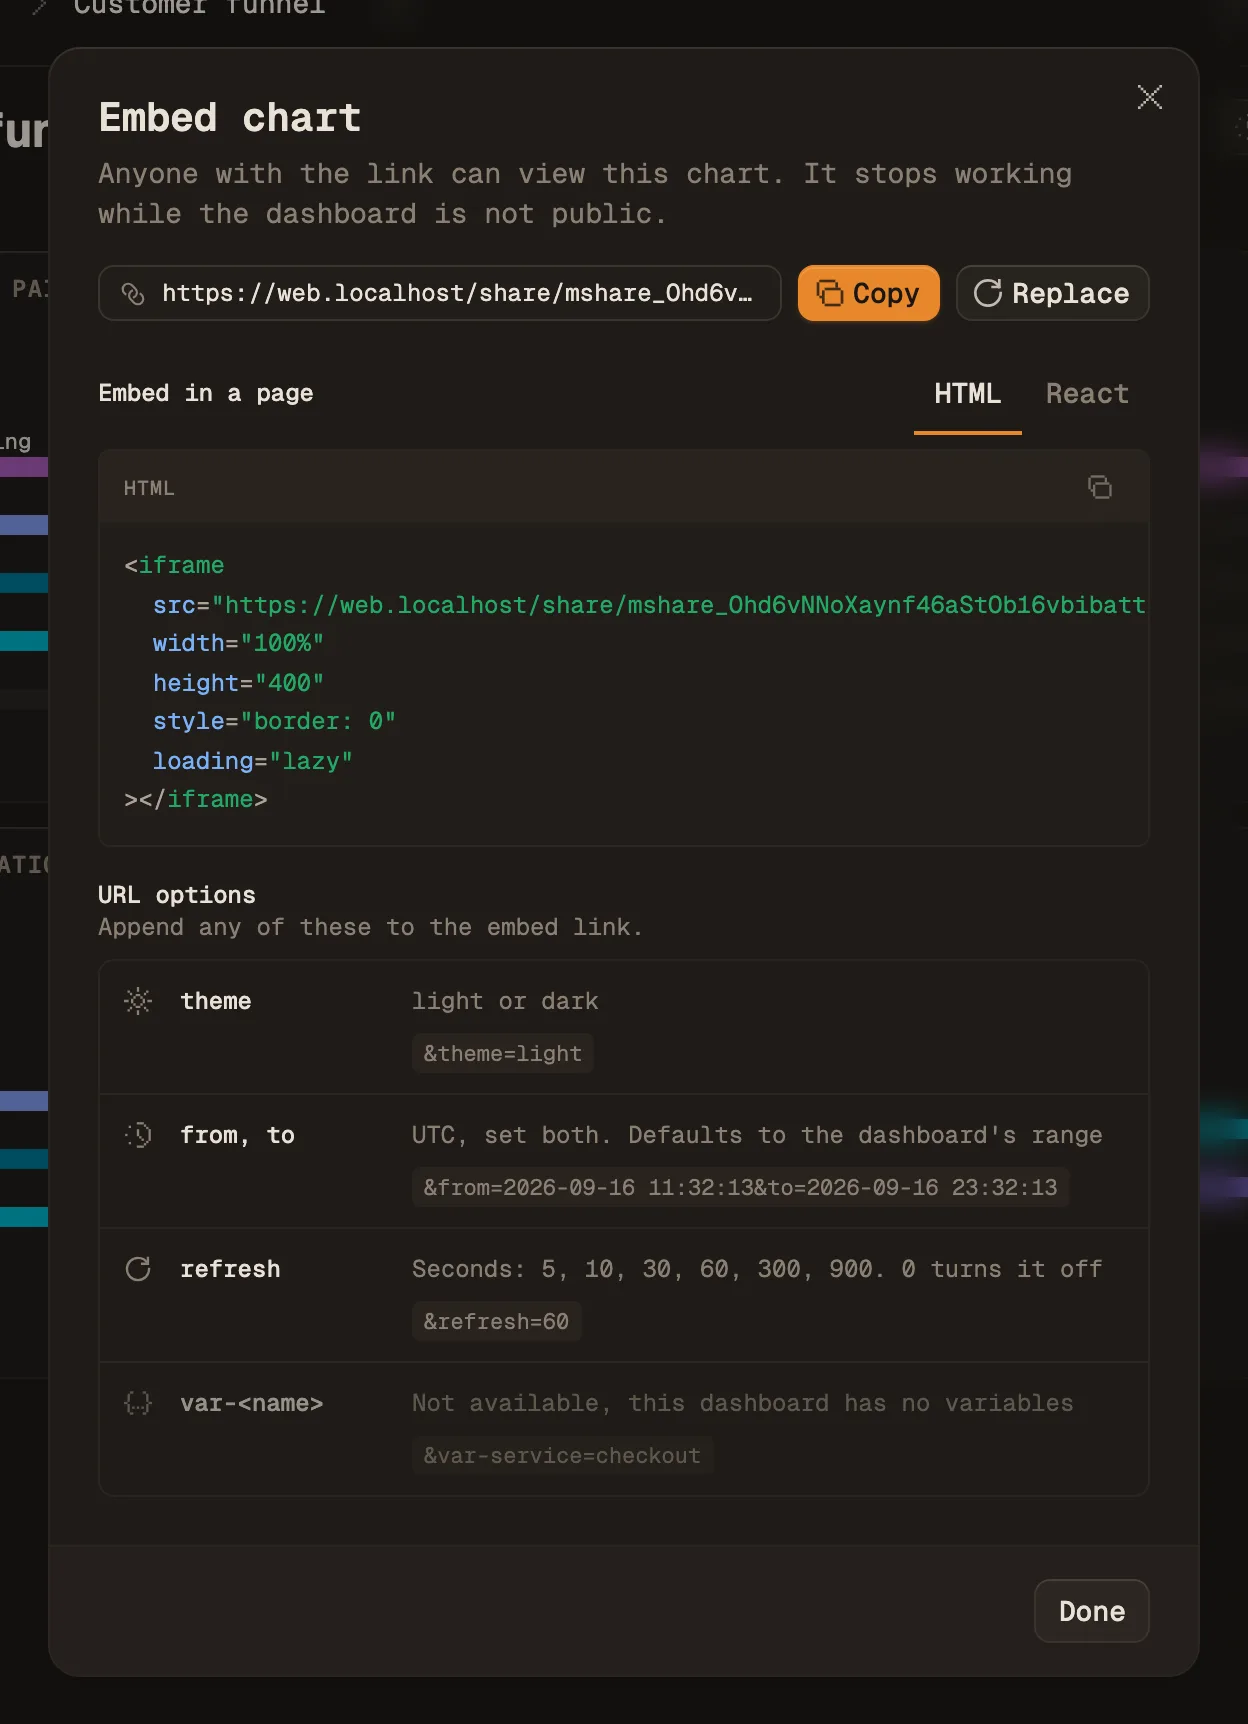
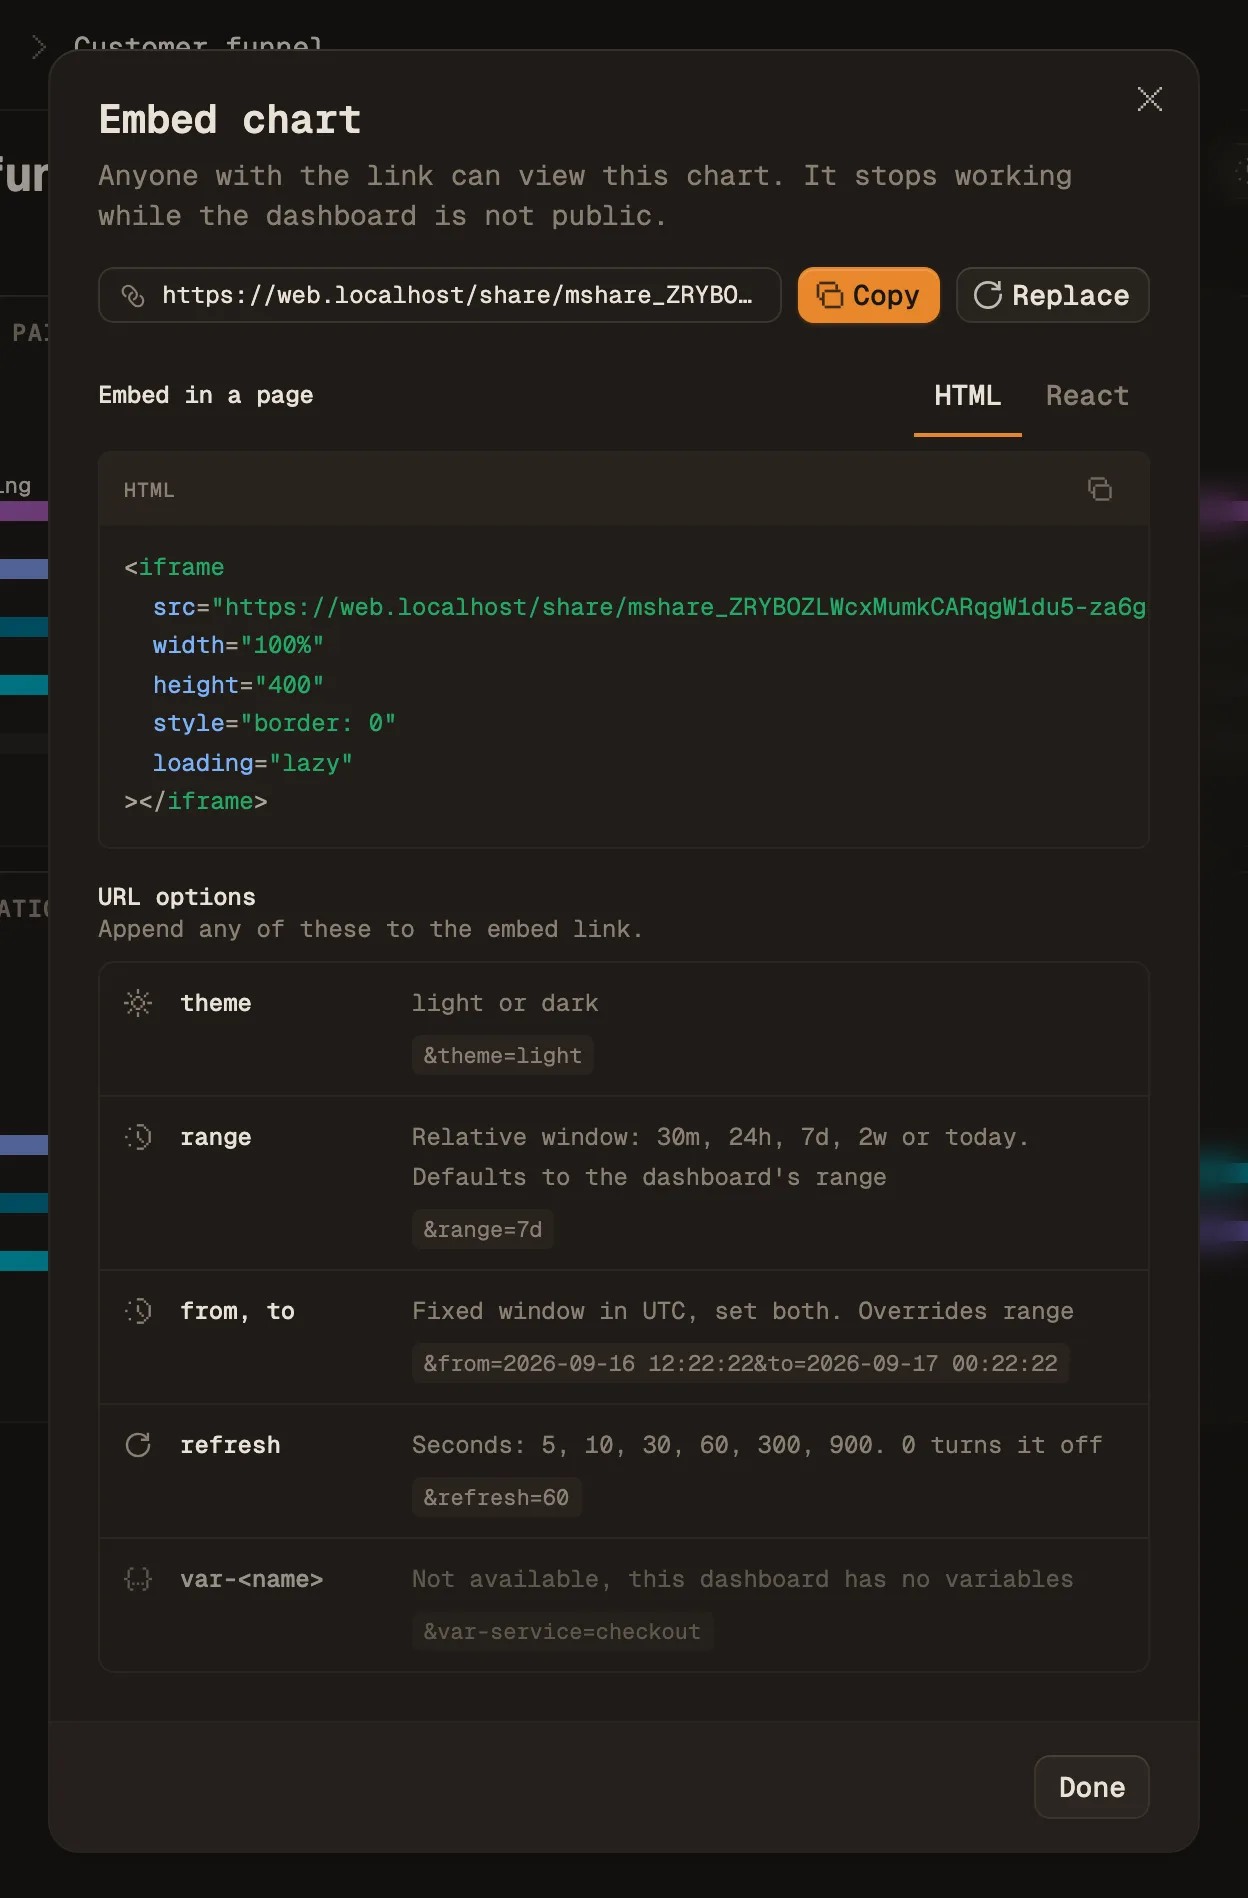
feat(dashboards): ?range= for shared dashboards and embeds
A relative window (24h, 7d, today) set from the URL, re-resolved on every load
and refresh like the board's own. from/to still win; an unreadable range falls
back to the board's range instead of a silent 1h. The embed dialog lists it,
and the embed guide documents it and drops the funnel walkthrough.

diff --git a/apps/web/src/routes/share/$token.tsx b/apps/web/src/routes/share/$token.tsx
@@ -41,6 +41,7 @@ import { RefreshControls } from "@/components/time-range-picker/refresh-controls
 import { useIntervalRefresh } from "@/hooks/use-interval-refresh"
 import type { DashboardRefreshIntervalSeconds } from "@maple/domain/http"
 import { formatTimeRangeDisplay, presetLabel } from "@/lib/time-utils"
+import { resolveTimeRangeWindow } from "@maple/query-engine"
 import {
 	shareTimeRange,
 	useShareWidgetData,
@@ -69,6 +70,11 @@ const ShareSearch = Schema.StructWithRest(
 		theme: Schema.optional(Schema.String),
 		from: Schema.optional(Schema.String),
 		to: Schema.optional(Schema.String),
+		/**
+		 * A relative window (`24h`, `7d`, `today`) overriding the board's own. Loose
+		 * like `theme`: an unreadable value falls back to the board's range.
+		 */
+		range: Schema.optional(Schema.String),
 		/**
 		 * Auto-refresh cadence in seconds for this URL, overriding the board's
 		 * stored default. A share has nowhere to persist a viewer's choice, so
@@ -105,7 +111,7 @@ interface ShareWindow {
 const DEFAULT_SHARE_TIME_RANGE = { type: "relative", value: "1h" } as const
 
 const resolveShareWindow = (
-	search: { readonly from?: string; readonly to?: string },
+	search: { readonly from?: string; readonly to?: string; readonly range?: string },
 	stored: unknown,
 	{ snap }: { snap: boolean } = { snap: true },
 ): ShareWindow | null => {
@@ -114,6 +120,16 @@ const resolveShareWindow = (
 			timeRange: { startTime: search.from, endTime: search.to },
 			label: formatTimeRangeDisplay(search.from, search.to),
 		}
+	}
+	// `resolveTimeRangeWindow`, not `resolveTimeRange`: the latter quietly
+	// substitutes "1h" for a shorthand it cannot read, and a typo in the URL
+	// should cost the override, not silently show a different window.
+	const range =
+		search.range === undefined
+			? null
+			: resolveTimeRangeWindow({ type: "relative", value: search.range }, { snap })
+	if (search.range !== undefined && range !== null) {
+		return { timeRange: range, label: presetLabel(search.range) }
 	}
 	const timeRange = shareTimeRange(stored) ?? DEFAULT_SHARE_TIME_RANGE
 	const resolved = resolveTimeRange(timeRange, { snap })
@@ -207,6 +223,7 @@ function SharePageContent({ isSignedIn }: { isSignedIn: boolean }) {
 				token={token}
 				from={search.from}
 				to={search.to}
+				range={search.range}
 				search={search}
 				refreshParam={search.refresh}
 				signedIn={isSignedIn}
@@ -398,6 +415,7 @@ function ShareBody({
 	token,
 	from,
 	to,
+	range,
 	search,
 	refreshParam,
 	signedIn,
@@ -407,6 +425,7 @@ function ShareBody({
 	token: string
 	from: string | undefined
 	to: string | undefined
+	range: string | undefined
 	search: Record<string, unknown>
 	refreshParam: number | string | undefined
 	signedIn: boolean
@@ -423,8 +442,8 @@ function ShareBody({
 	// re-resolving a relative preset on every render would re-key the fetch
 	// effect forever.
 	const window = useMemo(
-		() => resolveShareWindow({ from, to }, share.dashboard.timeRange, { snap: refreshTick === 0 }),
-		[from, to, share.dashboard.timeRange, refreshTick],
+		() => resolveShareWindow({ from, to, range }, share.dashboard.timeRange, { snap: refreshTick === 0 }),
+		[from, to, range, share.dashboard.timeRange, refreshTick],
 	)
 	// Only what the URL selects; the server runs the board's own ladder
 	// (default → All → first option) for everything else, so an unset variable

diff --git a/apps/web/src/components/dashboard-builder/toolbar/embed-widget-dialog.tsx b/apps/web/src/components/dashboard-builder/toolbar/embed-widget-dialog.tsx
@@ -306,8 +306,15 @@ function EmbedUrlOptions() {
 		{
 			key: "range",
 			icon: ClockIcon,
+			param: "range",
+			description: "Relative window: 30m, 24h, 7d, 2w or today. Defaults to the dashboard's range",
+			example: "&range=7d",
+		},
+		{
+			key: "from-to",
+			icon: ClockIcon,
 			param: "from, to",
-			description: "UTC, set both. Defaults to the dashboard's range",
+			description: "Fixed window in UTC, set both. Overrides range",
 			example: `&from=${warehouseDateTime(now - 12 * 3600_000)}&to=${warehouseDateTime(now)}`,
 		},
 		{

diff --git a/apps/landing/src/content/docs/dashboards/embed-charts.md b/apps/landing/src/content/docs/dashboards/embed-charts.md
@@ -8,28 +8,17 @@ navLabel: "Embed charts"
 
 Any chart on a public Maple dashboard can go into another page as a plain `<iframe>`. The chart queries Maple every time it loads, so the page shows the same numbers as the dashboard, with no export job and no second copy of the data.
 
-The example on this page is Fieldnote, a made-up B2B app. Its admin panel has a Growth page, and the three funnels on it come straight from a Maple dashboard.
+The example on this page is Fieldnote, a made-up B2B app. Its admin panel has a Growth page, and its three funnel charts are embedded from Maple.
 
 <figure class="shot">
   <img src="/screenshots/docs/embed-charts-06-customer-product.webp" alt="A light-themed admin panel for an app called Fieldnote. Its Growth page shows three KPI cards and, below them, three funnel charts embedded from Maple: pricing page to paid plan, signup to activation, and invite to paid." loading="lazy" />
   <figcaption>Fieldnote's admin panel. The KPI cards are Fieldnote's own markup; the three funnels are Maple charts in iframes, using <code>theme=light</code>.</figcaption>
 </figure>
 
-## The example dashboard: a trial-to-paid funnel
-
-The data behind the example is synthetic: about 4,200 visitors to `fieldnote.app/pricing` over 30 days, with [product events](/docs/product-events/overview) for each step they took after that. The dashboard, **Customer funnel**, has three funnel charts built on those events:
-
-| Chart                    | Steps                                                                                                |
-| ------------------------ | ---------------------------------------------------------------------------------------------------- |
-| Pricing page → paid plan | page view of `/pricing`, `signup_completed`, `workspace_created`, `teammate_invited`, `plan_started` |
-| Signup → activation      | `signup_completed`, `workspace_created`, `teammate_invited`                                          |
-| Invite → paid            | `teammate_invited`, `plan_started`                                                                   |
-
-`plan_started` is sent from Fieldnote's billing service with `POST /v1/events`. The other events come from the browser.
+The charts come from a Maple dashboard called **Customer funnel**:
 
 <figure class="shot">
-  <img src="/screenshots/docs/embed-charts-01-dashboard.webp" alt="The Customer funnel dashboard in Maple: a wide funnel from the pricing page to a paid plan, with 4.1K visitors narrowing to 282 paid, and two smaller funnels below it for signup to activation and invite to paid." loading="lazy" />
-  <figcaption>The dashboard in Maple. Of 4.1K visitors to the pricing page, 282 started a paid plan within the 14-day funnel window.</figcaption>
+  <img src="/screenshots/docs/embed-charts-01-dashboard.webp" alt="The Customer funnel dashboard in Maple with three funnel charts: pricing page to paid plan, signup to activation, and invite to paid." loading="lazy" />
 </figure>
 
 Other chart types embed the same way. See [Which charts can be embedded](#which-charts-can-be-embedded).
@@ -101,20 +90,21 @@ The chart fills the frame, so `height` sets the chart's height. `?embed=true` re
 
 Append any of these to the link in `src`:
 
-| Parameter    | Values                                                                                                                     |
-| ------------ | -------------------------------------------------------------------------------------------------------------------------- |
-| `theme`      | `light` or `dark`. Defaults to dark.                                                                                       |
-| `from`, `to` | UTC, `YYYY-MM-DD HH:MM:SS`. Set both. Defaults to the dashboard's own time range.                                          |
-| `refresh`    | Seconds between reloads: `5`, `10`, `30`, `60`, `300` or `900`. `0` turns it off. Defaults to the dashboard's own setting. |
-| `var-<name>` | A value for one of the dashboard's variables, such as `var-service=checkout`.                                              |
+| Parameter    | Values                                                                                                                                                                      |
+| ------------ | --------------------------------------------------------------------------------------------------------------------------------------------------------------------------- |
+| `theme`      | `light` or `dark`. Defaults to dark.                                                                                                                                        |
+| `range`      | A relative window: minutes, hours, days, weeks or months, such as `30m`, `24h`, `7d`, `2w` or `1mo`, or `today`. Up to 31 days. Defaults to the dashboard's own time range. |
+| `from`, `to` | A fixed window in UTC, `YYYY-MM-DD HH:MM:SS`. Set both. Takes precedence over `range`.                                                                                      |
+| `refresh`    | Seconds between reloads: `5`, `10`, `30`, `60`, `300` or `900`. `0` turns it off. Defaults to the dashboard's own setting.                                                  |
+| `var-<name>` | A value for one of the dashboard's variables, such as `var-service=checkout`.                                                                                               |
 
 The dialog lists the dashboard's own variables with an example value for each. A space in `from` and `to` works as typed inside an HTML attribute.
 
-For example, a light chart over the first two weeks of September that reloads every five minutes:
+For example, a light chart over the last 7 days that reloads every five minutes:
 
 ```html
 <iframe
-	src="https://app.maple.dev/share/<token>?embed=true&theme=light&from=2026-09-01 00:00:00&to=2026-09-15 00:00:00&refresh=300"
+	src="https://app.maple.dev/share/<token>?embed=true&theme=light&range=7d&refresh=300"
 	width="100%"
 	height="330"
 	style="border: 0"
@@ -122,7 +112,7 @@ For example, a light chart over the first two weeks of September that reloads ev
 ></iframe>
 ```
 
-Without `from` and `to`, the embed uses the dashboard's own time range. When that is a relative range such as "Last 30 days", it is recalculated on every load and refresh. The URL can only set a fixed window; to embed a different relative range, change the dashboard's time range.
+A relative window, from `range` or from the dashboard, is recalculated on every load and refresh, so the chart always ends at the current time. A `range` the chart can't read is ignored and the dashboard's range is used instead.
 
 ## What a viewer of the embed can see
 
